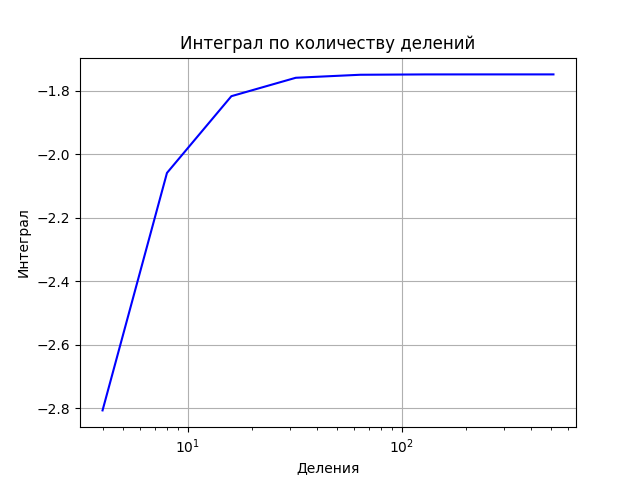
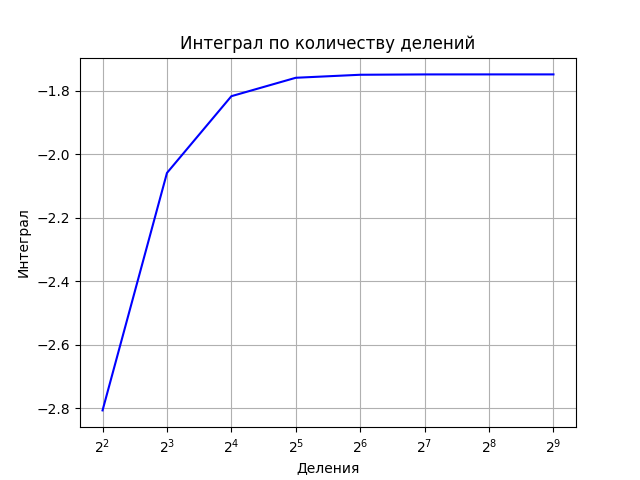
Added OOP + new graphics

diff --git a/lr2/OOPLR2.py b/lr2/OOPLR2.py
@@ -39,7 +39,7 @@ class FunctionPlotter:
         plt.plot(n, result, color="blue")
         plt.grid()
         plt.title("Интеграл по количеству делений")
-        plt.xscale("log")
+        plt.xscale("log", base=2)
         # plt.yscale("log")
         plt.xlabel("Деления")
         plt.ylabel("Интеграл")
@@ -54,7 +54,7 @@ class FunctionPlotter:
         plt.plot(n, delta, color="blue")
         plt.grid()
         plt.title("Погрешность по кол-ву делений")
-        plt.xscale("log")
+        plt.xscale("log", base=10)
         # plt.yscale("log")
         plt.xlabel("Деления")
         plt.ylabel(r"Погрешность $\delta$")